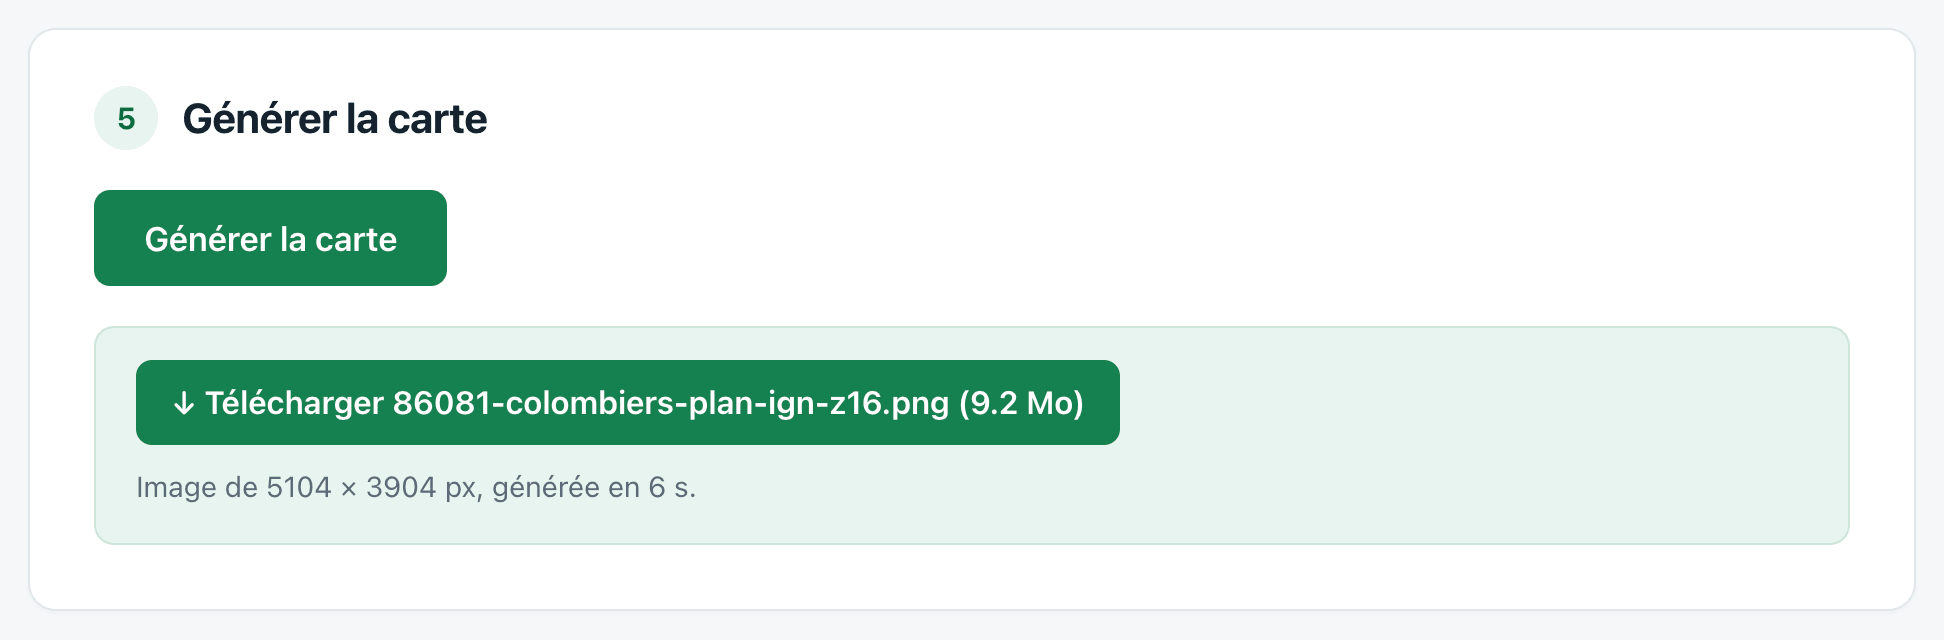
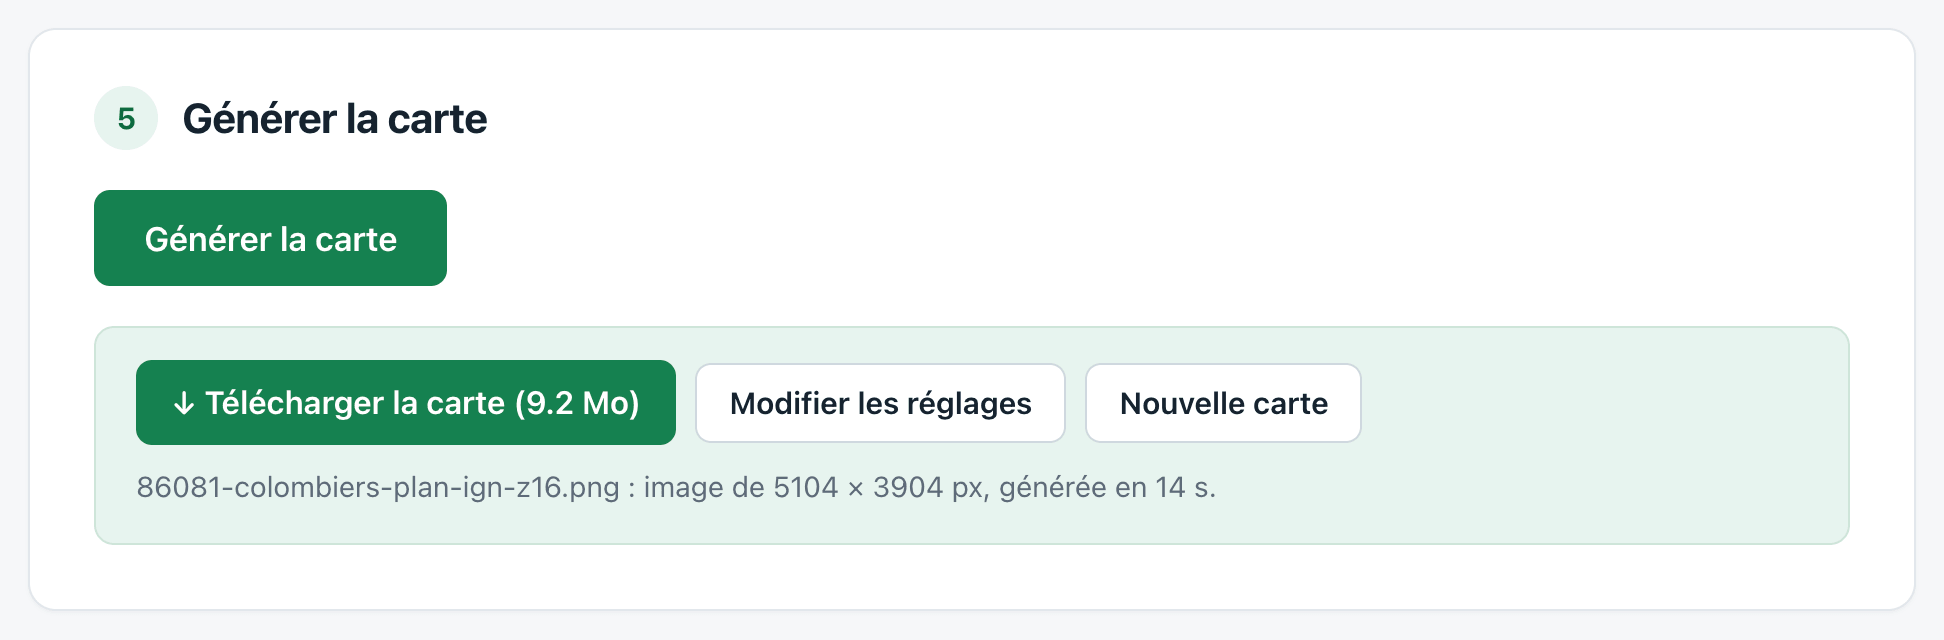
Reprend la capture de la carte générée avec ses trois boutons
La capture montre « Télécharger la carte », « Modifier les réglages » et
« Nouvelle carte », et le nom du fichier sur la ligne de détails. Prise
avec un cache vide : Colombiers au zoom 16, 5 104 × 3 904 px, 9,2 Mo,
générée en 14 s, sans tuile manquante ni date absente.

Changed region(s): [[0.1852, 0.5625, 0.679, 0.7188], [0.0617, 0.75, 0.6173, 0.7812]]

diff --git a/docs/prise-en-main.md b/docs/prise-en-main.md
@@ -22,7 +22,7 @@ L'outil est libre et gratuit. Les données viennent de services publics — IGN,
 
 5. **Générez la carte**, puis téléchargez-la. Le téléchargement des tuiles prend de quelques secondes à quelques minutes selon la taille demandée ; l'avancement s'affiche source par source. Ensuite, « Modifier les réglages » remonte aux réglages en gardant tout, pour une autre carte de la même commune ; « Nouvelle carte » repart de zéro — dans l'application, aussi par le menu Fichier —, en gardant les couches ajoutées par leur adresse.
 
-   ![La dernière étape : la carte générée, avec ses dimensions, son poids et le bouton de téléchargement](images/captures/generer-5-carte.png)
+   ![La dernière étape : la carte générée, avec son poids, ses dimensions et les boutons Télécharger la carte, Modifier les réglages et Nouvelle carte](images/captures/generer-5-carte.png)
 
 ## Ce que vous obtenez
 
